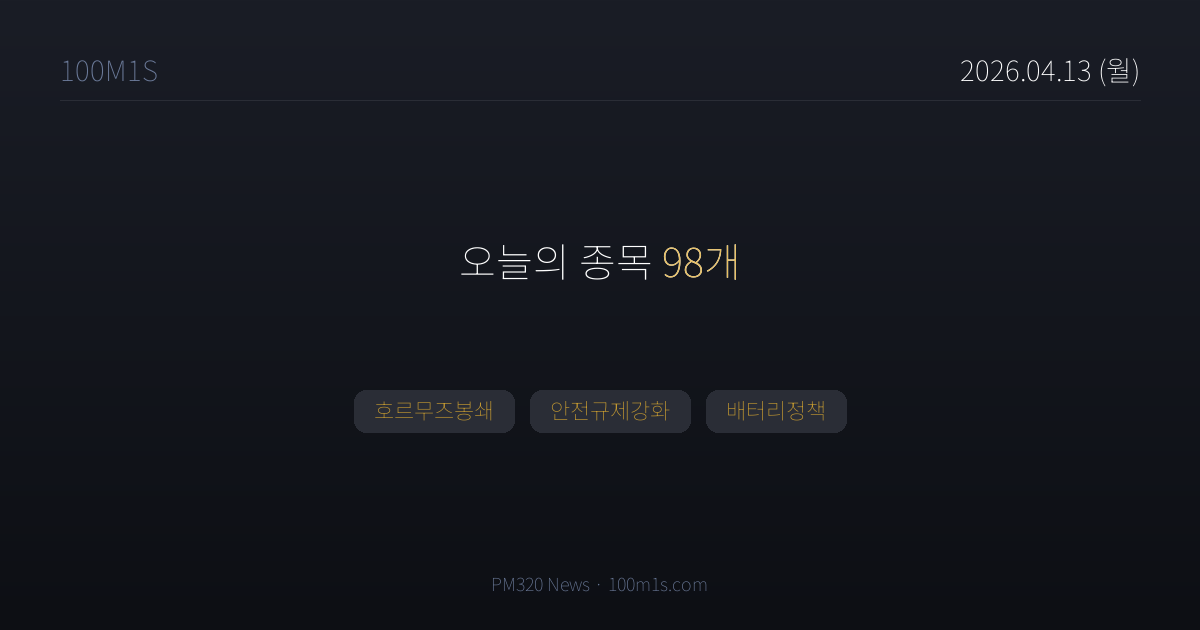
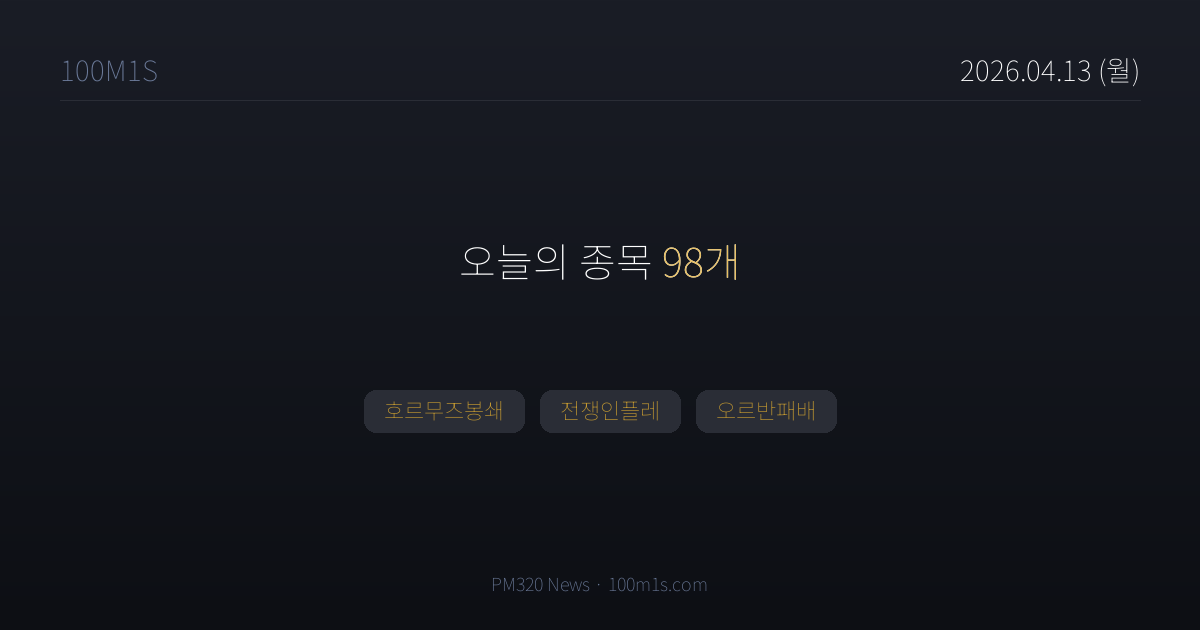
chore(news): 2026-04-13T07:37 pipeline

Changed region(s): [[0.2775, 0.6032, 0.7092, 0.6937]]

diff --git a/news/2026-04-13.html b/news/2026-04-13.html
@@ -4,7 +4,7 @@
 <meta charset="UTF-8">
 <title>4월 13일 (월) 뉴스 — 100M1S</title>
 <meta property="og:title" content="4월 13일 (월) · 종목 98개">
-<meta property="og:description" content="호르무즈봉쇄, 안전규제강화, 배터리정책">
+<meta property="og:description" content="호르무즈봉쇄, 전쟁인플레, 오르반패배">
 <meta property="og:image" content="https://100m1s.com/og/2026-04-13.png">
 <meta property="og:image:width" content="1200">
 <meta property="og:image:height" content="630">
